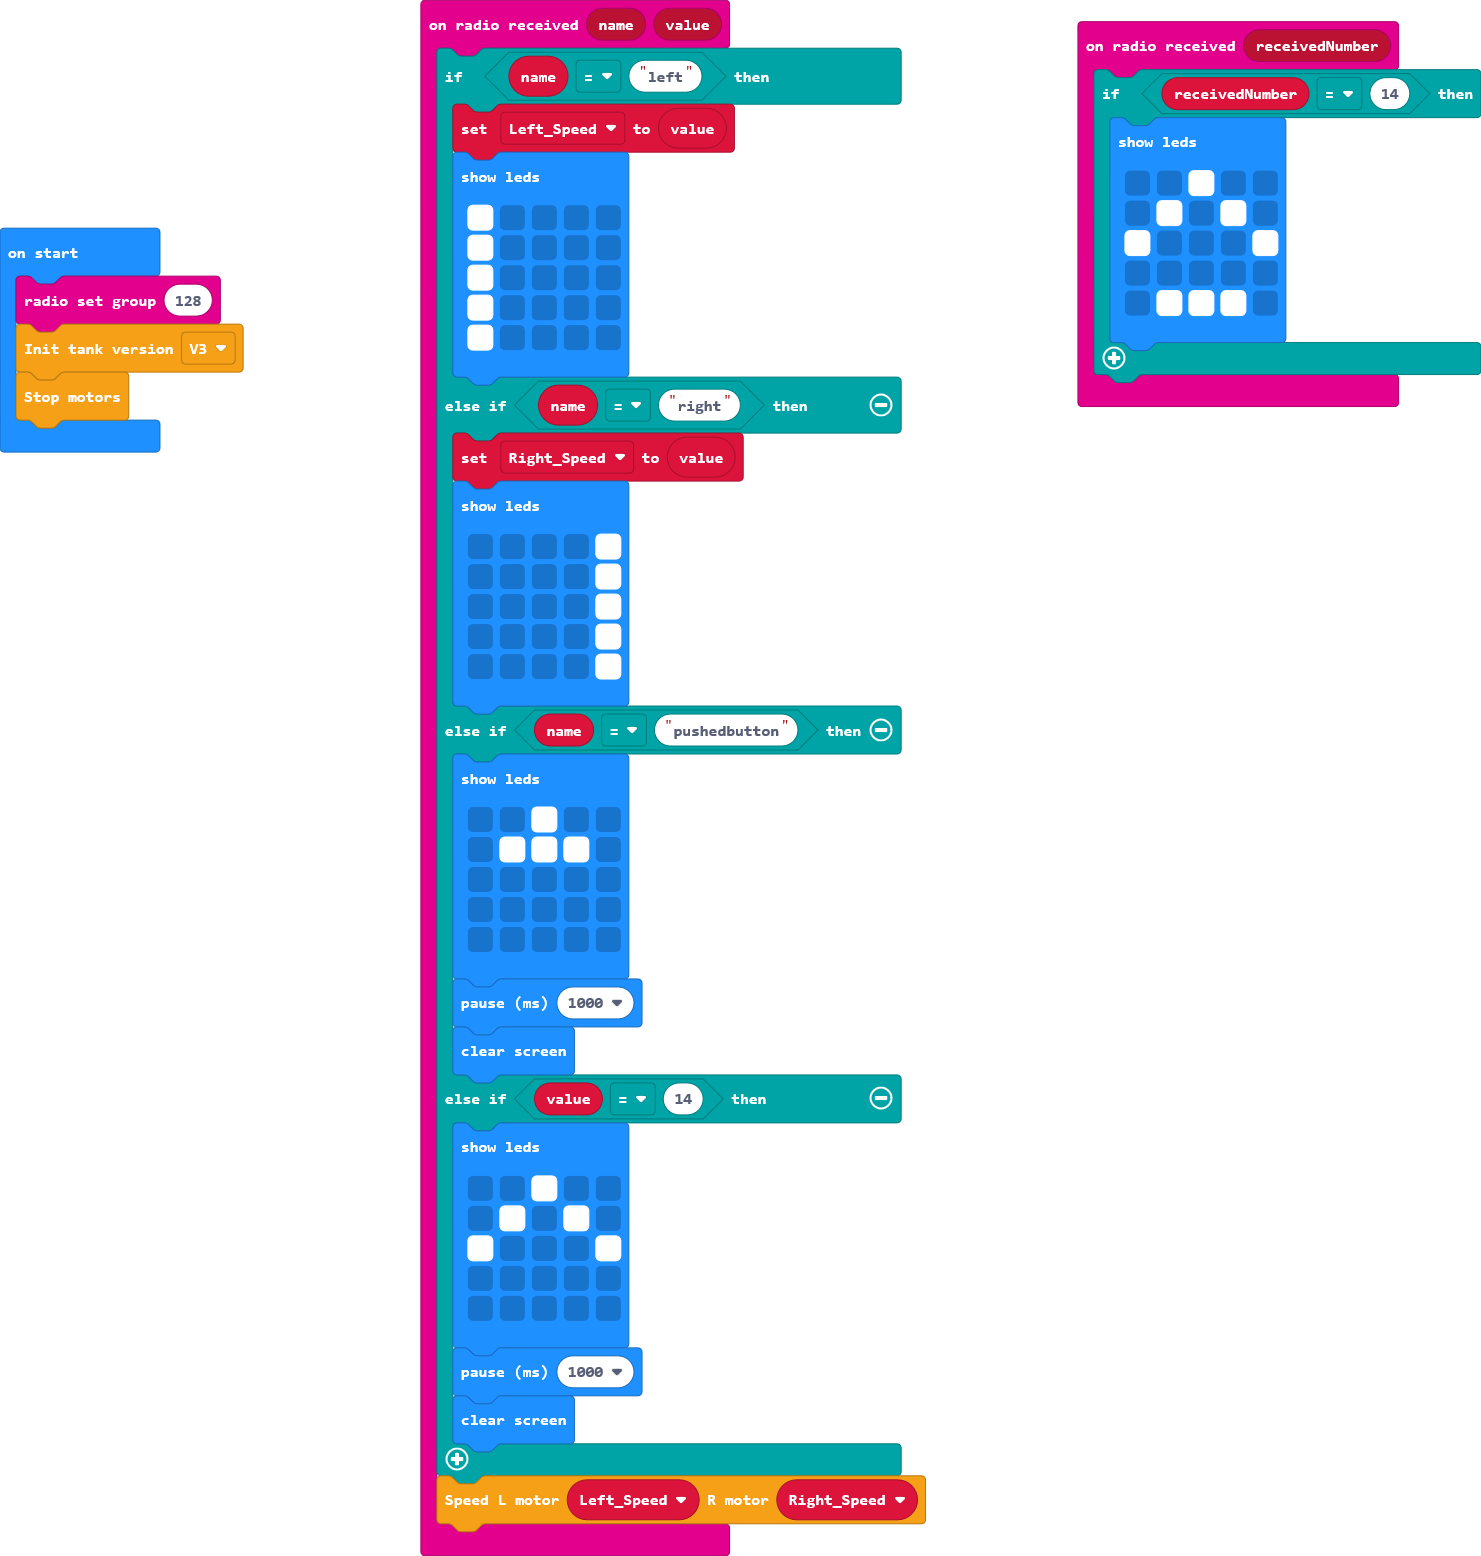
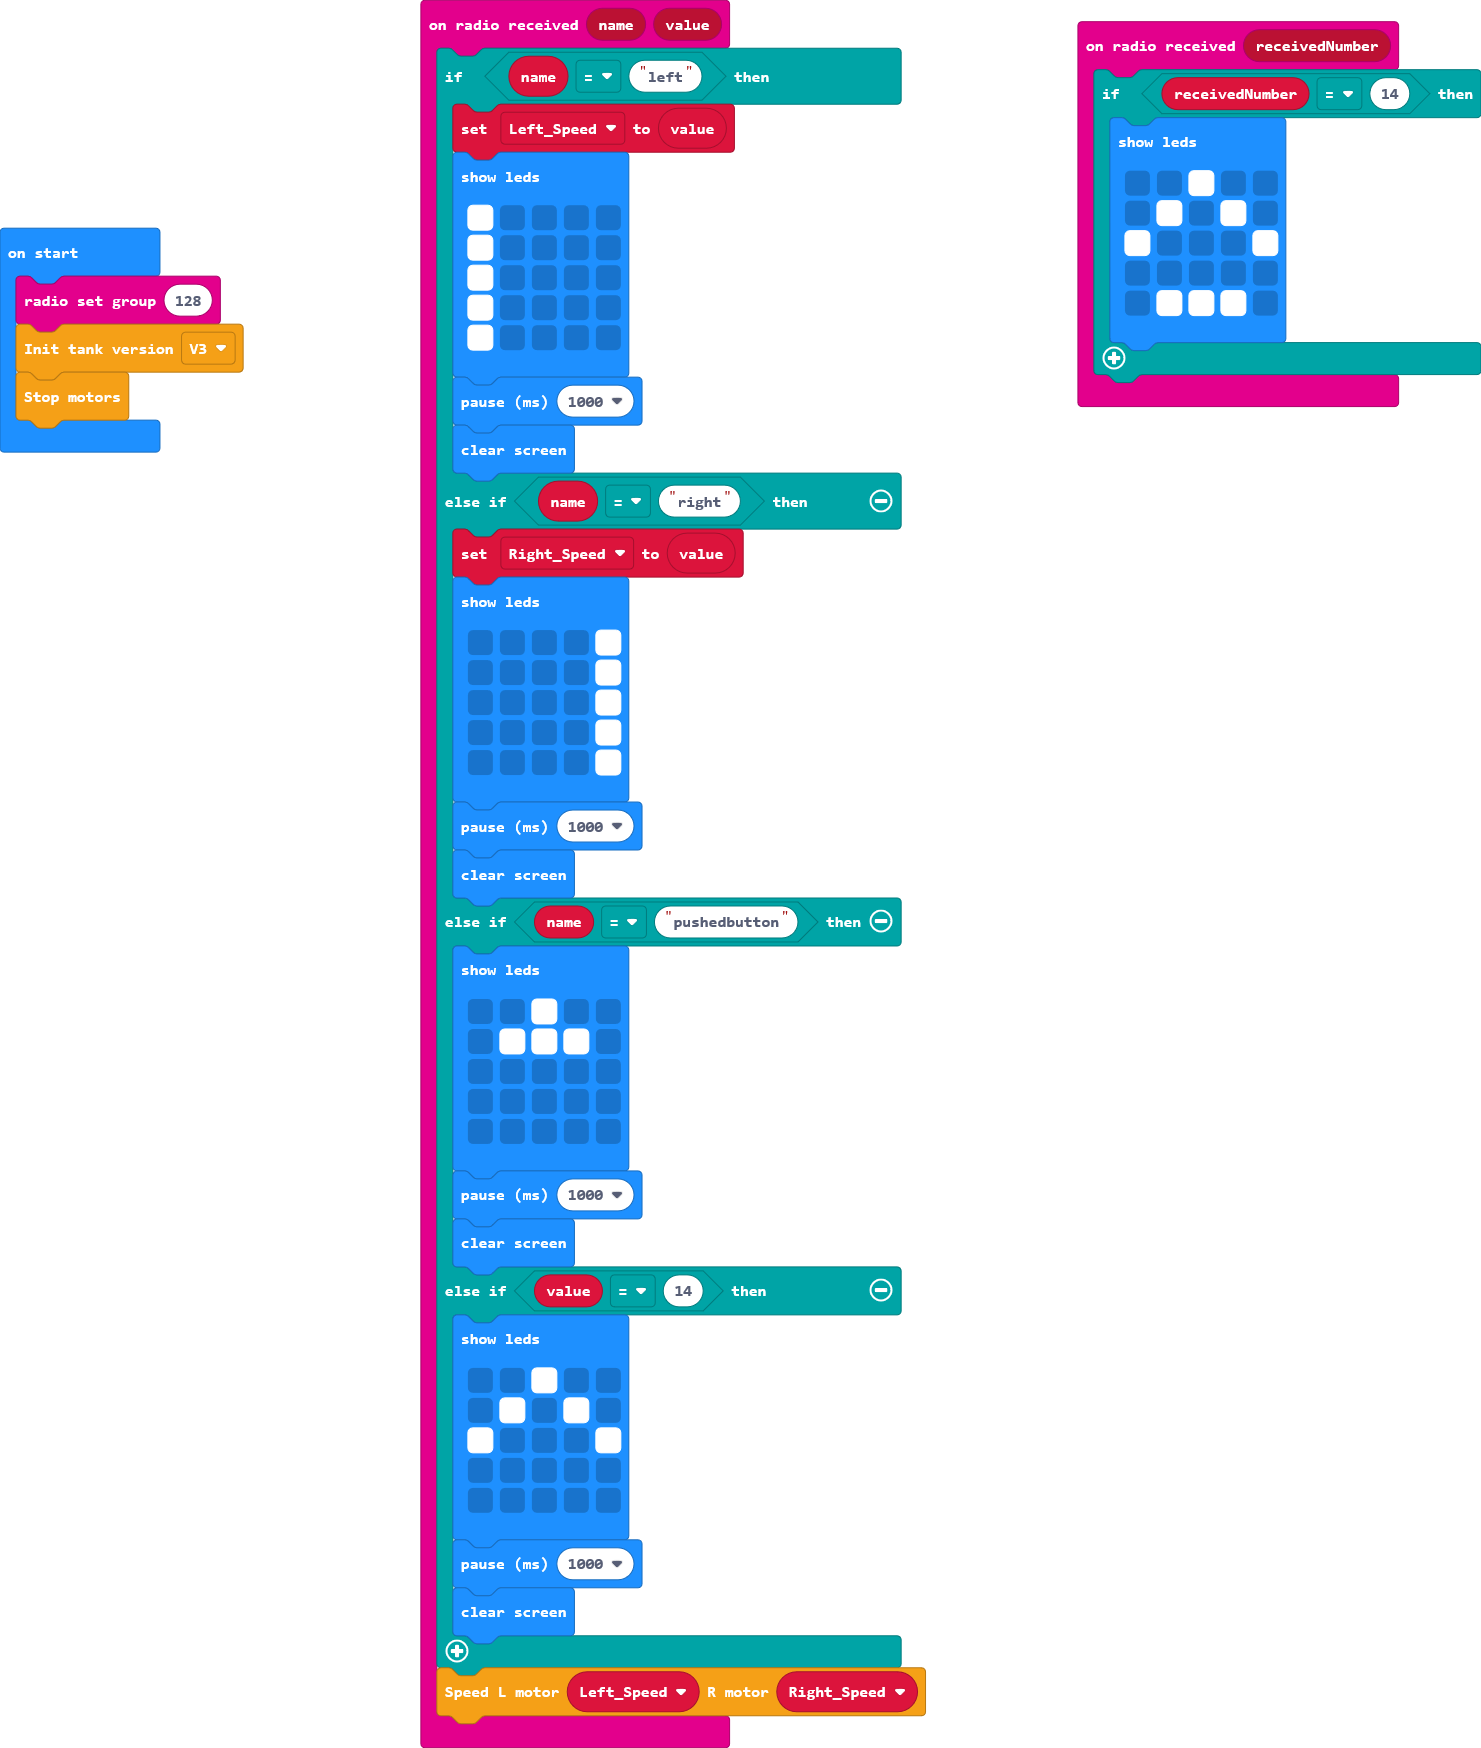
Update main.blocks, main.ts

Changed region(s): [[0.2795, 0.0, 0.6212, 0.9871], [0.7144, 0.0, 1.0, 0.2776], [0.0, 0.1234, 0.1864, 0.3085]]

diff --git a/main.ts b/main.ts
@@ -19,6 +19,8 @@ radio.onReceivedValue(function (name, value) {
             # . . . .
             # . . . .
             `)
+        basic.pause(1000)
+        basic.clearScreen()
     } else if (name == "right") {
         Right_Speed = value
         basic.showLeds(`
@@ -28,6 +30,8 @@ radio.onReceivedValue(function (name, value) {
             . . . . #
             . . . . #
             `)
+        basic.pause(1000)
+        basic.clearScreen()
     } else if (name == "pushedbutton") {
         basic.showLeds(`
             . . # . .
